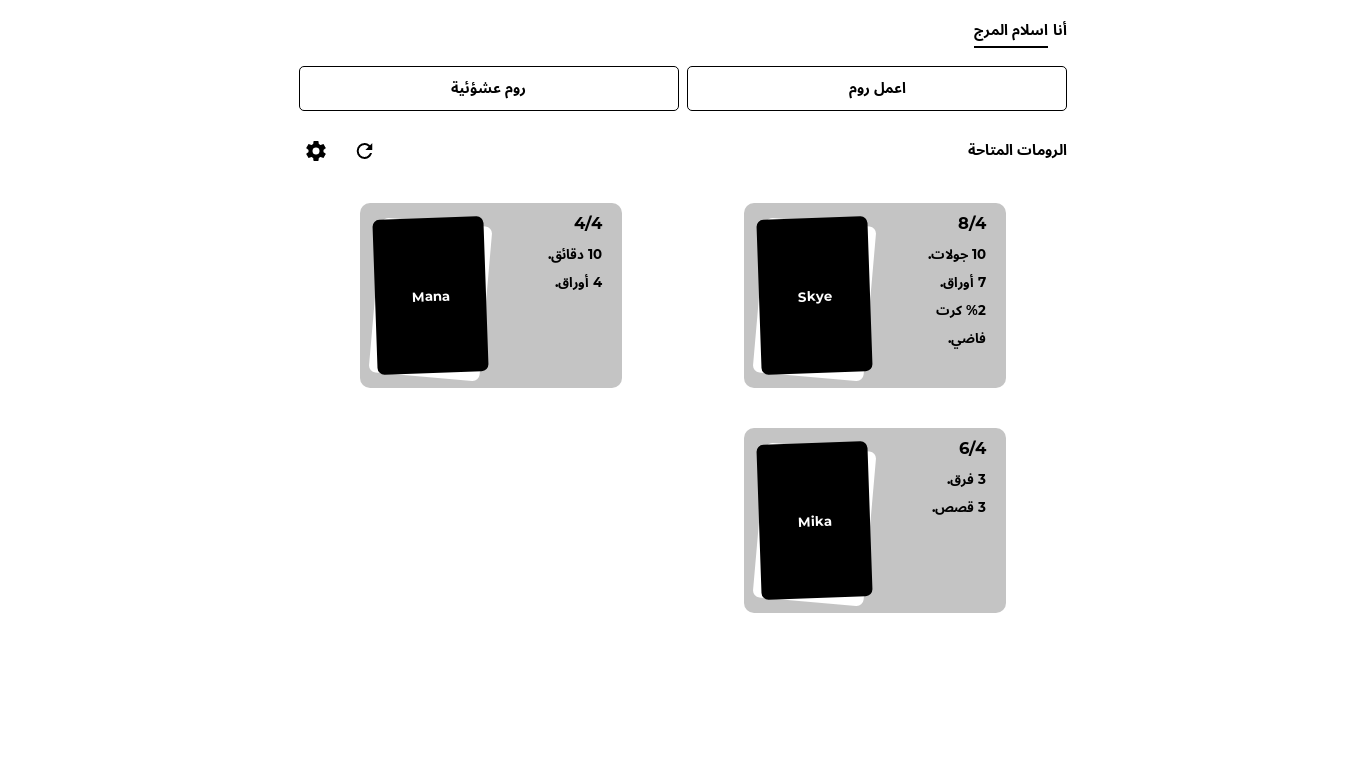
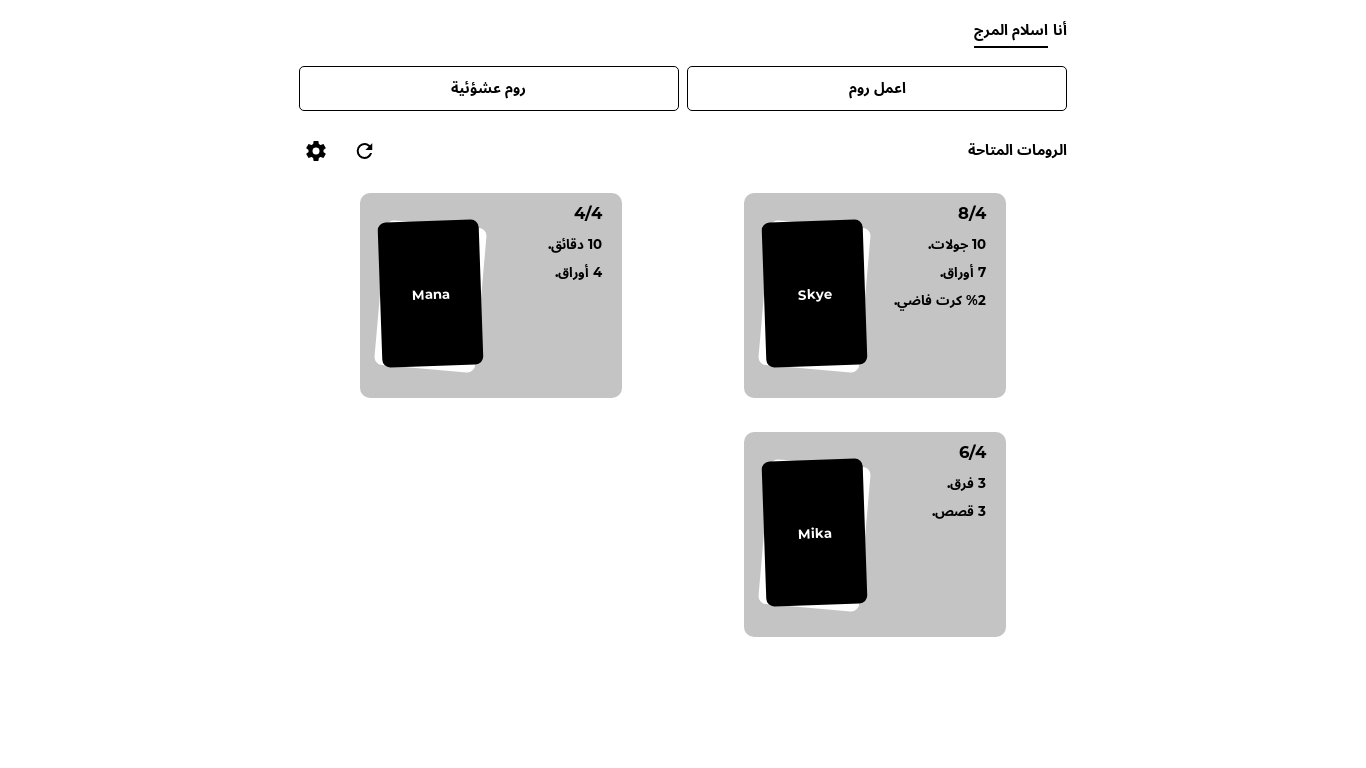
changed lobby (rooms) styles to allow LTR content

Changed region(s): [[0.5227, 0.25, 0.7379, 0.8438], [0.246, 0.25, 0.4612, 0.5312], [0.6764, 0.625, 0.7379, 0.6875]]

diff --git a/src/screens/game.js b/src/screens/game.js
@@ -761,8 +761,9 @@ const roomsStyles = createStyle({
 
     gridTemplateColumns: 'repeat(auto-fill, calc(260px + 1vw + 1vh))',
     gridTemplateRows: 'min-content',
+    justifyContent: 'space-around',
 
-    justifyContent: 'space-around'
+    rowGap: 'calc(15px + 2.5vh)'
   },
 
   indicator: {
@@ -824,7 +825,9 @@ const roomsStyles = createStyle({
   },
 
   room: {
-    display: 'flex',
+    display: 'grid',
+    gridTemplateColumns: '1fr 1fr',
+    columnGap: '20px',
 
     cursor: 'pointer',
     color: colors.roomForeground,
@@ -832,11 +835,13 @@ const roomsStyles = createStyle({
 
     width: 'auto',
     height: 'fit-content',
+    minHeight: '185px',
 
     fontWeight: '700',
     fontFamily: '"Montserrat", "Noto Arabic", sans-serif',
 
-    margin: '10px 10px 30px 10px',
+    padding: '10px 20px',
+    margin: '0px 10px',
     borderRadius: '10px',
 
     ':hover': {
@@ -849,12 +854,6 @@ const roomsStyles = createStyle({
   },
 
   highlights: {
-    minHeight: '165px',
-    width: 'calc(50% - 40px)',
-    height: 'auto',
-
-    margin: '10px 20px',
-
     '> * > *': {
       fontSize: 'calc(8px + 0.25vw + 0.25vh)'
     }
@@ -871,17 +870,9 @@ const roomsStyles = createStyle({
   },
 
   cover: {
+    display: 'flex',
     position: 'relative',
-    width: '50%'
-  },
-  
-  coverShadow: {
-    extend: 'coverBackground',
-    
-    backgroundColor: colors.whiteBackground,
-
-    top: '4px',
-    transform: 'rotate(5deg)'
+    alignItems: 'center'
   },
 
   coverBackground: {
@@ -893,22 +884,30 @@ const roomsStyles = createStyle({
 
     backgroundColor: colors.blackBackground,
 
-    left: 0,
-    width: 'calc(100% - 20px)',
-    height: 'calc(100% - 30px)',
+    width: '100%',
+    height: 'calc(100% - 40px)',
 
     overflow: 'hidden',
-    borderRadius: '7px',
+    borderRadius: '8px',
     
-    margin: '15px',
+    margin: '-4px 0 0',
     transform: 'rotate(-2deg)'
+  },
+
+  coverShadow: {
+    extend: 'coverBackground',
+    
+    backgroundColor: colors.whiteBackground,
+
+    margin: '3px 0 0',
+    transform: 'rotate(5deg)'
   },
 
   coverTitle: {
     color: colors.whiteText,
     
-    width: 'min-content',
     textAlign: 'center',
+    width: 'min-content',
 
     fontSize: 'calc(8px + 0.25vw + 0.25vh)'
   }
